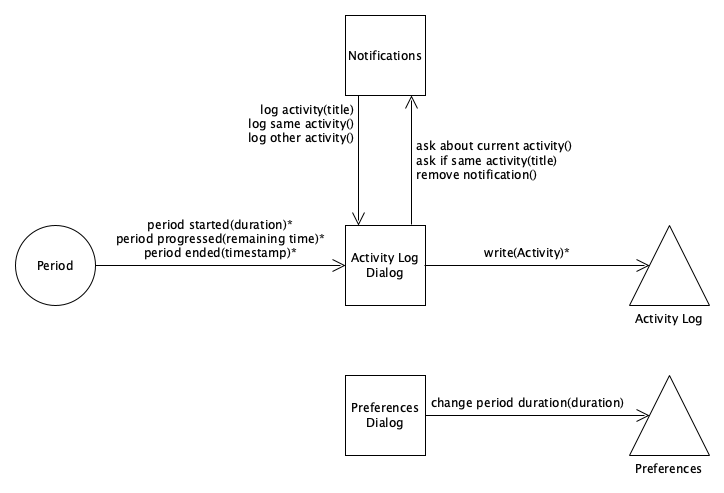
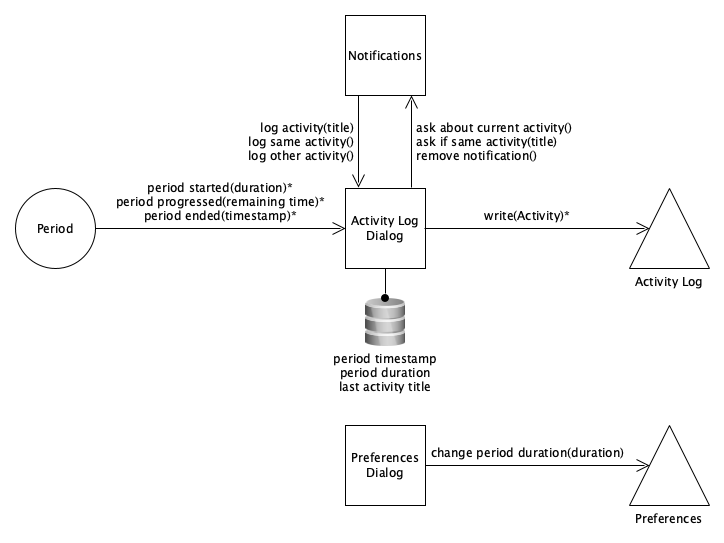
Made clear which data stored in activity log dialog

diff --git a/Activity Sampling/Portals/ActivityLogDialogController.swift b/Activity Sampling/Portals/ActivityLogDialogController.swift
@@ -19,13 +19,19 @@ class ActivityLogDialogController: NSViewController, PeriodDelegate {
     
     @IBOutlet var log: NSTextView!
     
-    private var timestamp: Date?
-    private var lastActivity: Activity?
+    private var periodTimestamp: Date!
     
     private var periodDuration: TimeInterval {
         get { return elapsedTime.maxValue }
         set { elapsedTime.maxValue = newValue }
     }
+    
+    private var lastActivityTitle: String {
+        get { return activityTitle.stringValue }
+        set { activityTitle.stringValue = newValue }
+    }
+    
+    private var lastTimestamp: Date!
     
     override func viewWillAppear() {
         super.viewWillAppear()
@@ -38,12 +44,11 @@ class ActivityLogDialogController: NSViewController, PeriodDelegate {
     }
     
     @IBAction func logActivity(_ sender: Any) {
-        lastActivity = Activity(timestamp: timestamp!, duration: periodDuration, title: activityTitle.stringValue)
         disableFormular()
-        activityTitle.stringValue = lastActivity!.title
-        printCurrentDate(activity: lastActivity!)
-        printActivity(lastActivity!)
-        Head.shared.write(activity: lastActivity!)
+        printCurrentDate(periodTimestamp)
+        let activity = Activity(timestamp: periodTimestamp, duration: periodDuration, title: lastActivityTitle)
+        printActivity(activity)
+        Head.shared.write(activity: activity)
     }
     
     private func enableFormular() {
@@ -60,20 +65,21 @@ class ActivityLogDialogController: NSViewController, PeriodDelegate {
         logActivityButton.isEnabled = false
     }
     
-    private func printCurrentDate(activity: Activity) {
-        if sameDay(activity: activity) {
+    private func printCurrentDate(_ timestamp: Date) {
+        if sameDay(timestamp) {
             return
         }
-        let date = DateFormatter.localizedString(from: activity.timestamp, dateStyle: .full, timeStyle: .none)
+        let date = DateFormatter.localizedString(from: timestamp, dateStyle: .full, timeStyle: .none)
         log.textStorage?.append(NSAttributedString(string: date + "\n",
                                                    attributes: [.foregroundColor: NSColor.textColor]))
     }
     
-    private func sameDay(activity: Activity) -> Bool {
-        guard lastActivity != nil else {
+    private func sameDay(_ timestamp: Date) -> Bool {
+        guard lastTimestamp != nil else {
             return false
         }
-        return Calendar.current.compare(lastActivity!.timestamp, to: activity.timestamp, toGranularity: .day) != .orderedSame
+        
+        return Calendar.current.compare(lastTimestamp, to: timestamp, toGranularity: .day) != .orderedSame
     }
     
     private func printActivity(_ activity: Activity){
@@ -92,16 +98,16 @@ class ActivityLogDialogController: NSViewController, PeriodDelegate {
     func periodProgressed(remainingTime: TimeInterval) {
         elapsedTime.doubleValue = periodDuration - remainingTime
         
-        let time = Date(timeIntervalSinceReferenceDate: remainingTime)
         let formatter = DateFormatter()
         formatter.dateStyle = .none
         formatter.timeStyle = .medium
         formatter.timeZone = TimeZone(identifier: "UTC")
+        let time = Date(timeIntervalSinceReferenceDate: remainingTime)
         self.remainingTime.stringValue = formatter.string(from: time)
     }
     
     func periodEnded(timestamp: Date) {
-        self.timestamp = timestamp
+        periodTimestamp = timestamp
         enableFormular()
     }
     

diff --git a/Activity Sampling/Head.swift b/Activity Sampling/Head.swift
@@ -16,6 +16,7 @@ class Head: ClockDelegate {
         get { return body.periodDelegate }
         set { body.periodDelegate = newValue }
     }
+    
     var periodDuration: TimeInterval {
         get { return body.periodDuration }
         set { body.periodDuration = newValue }
